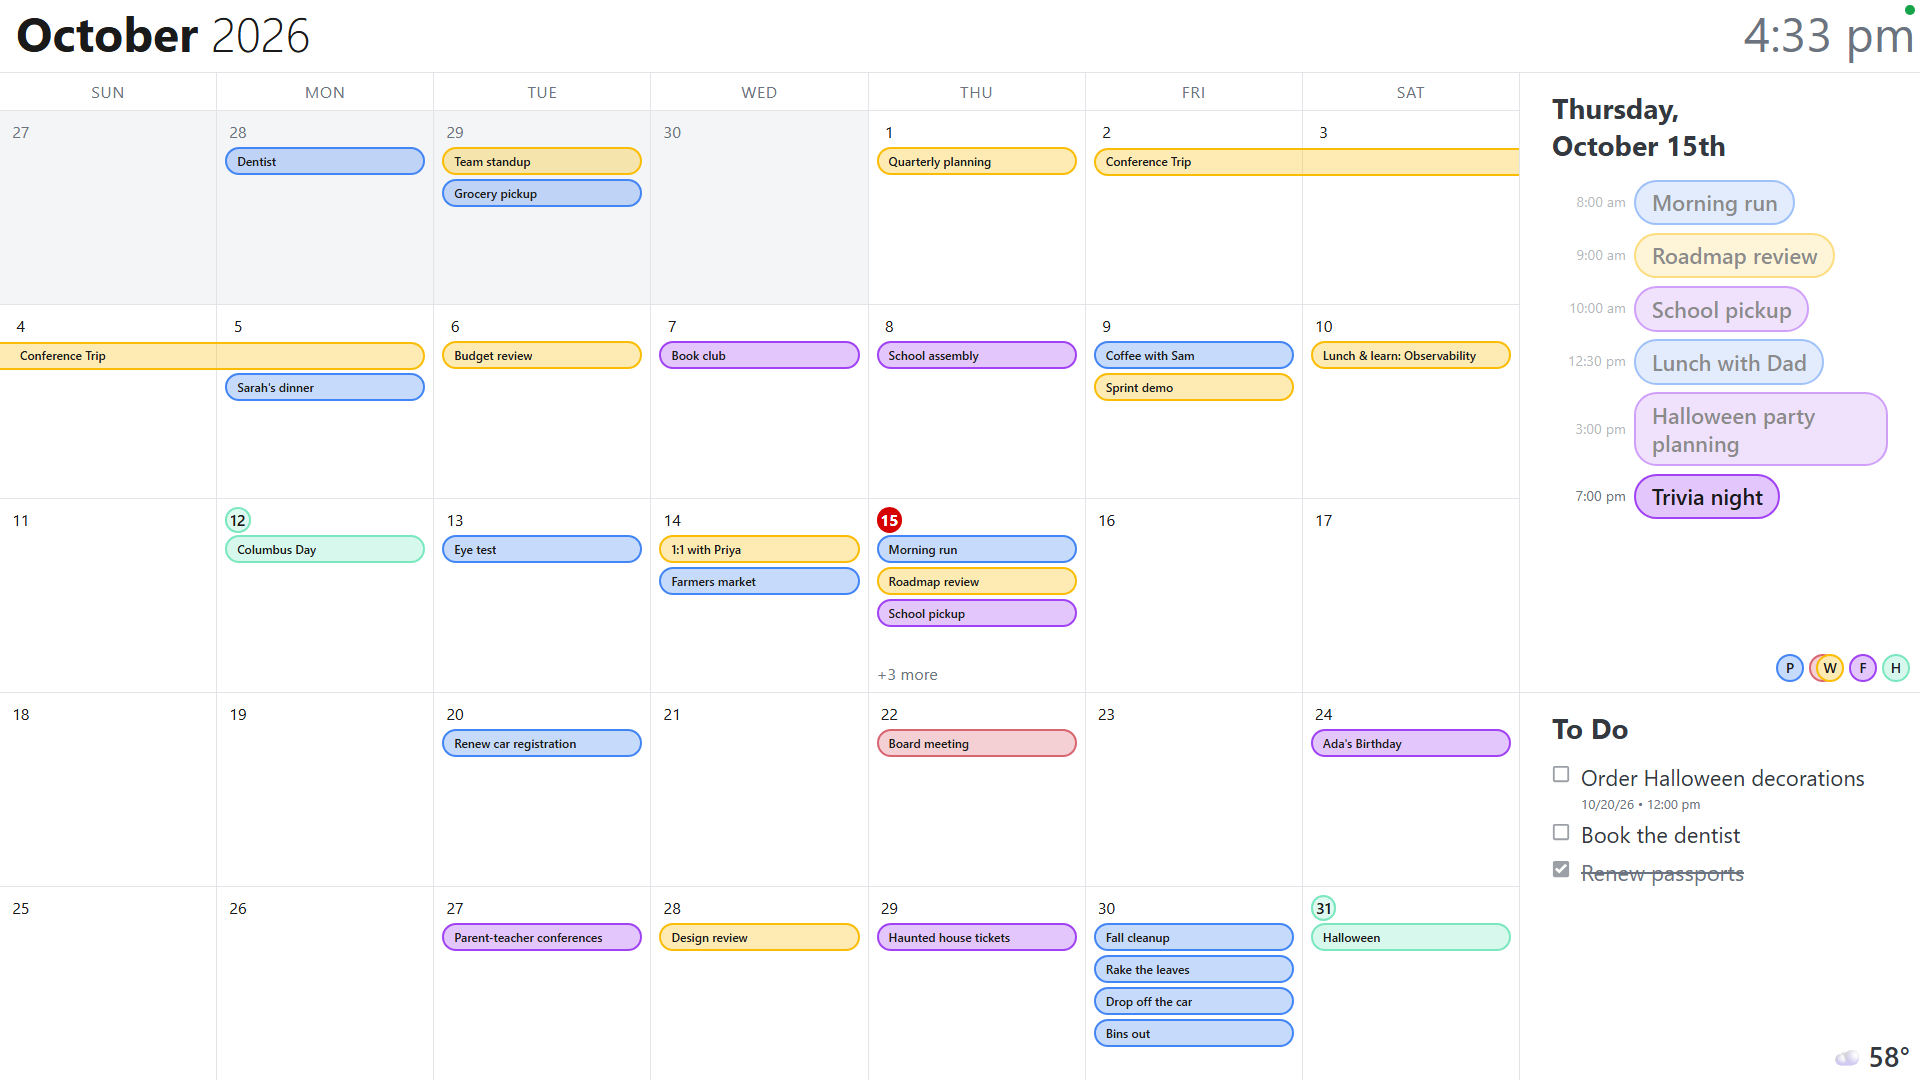
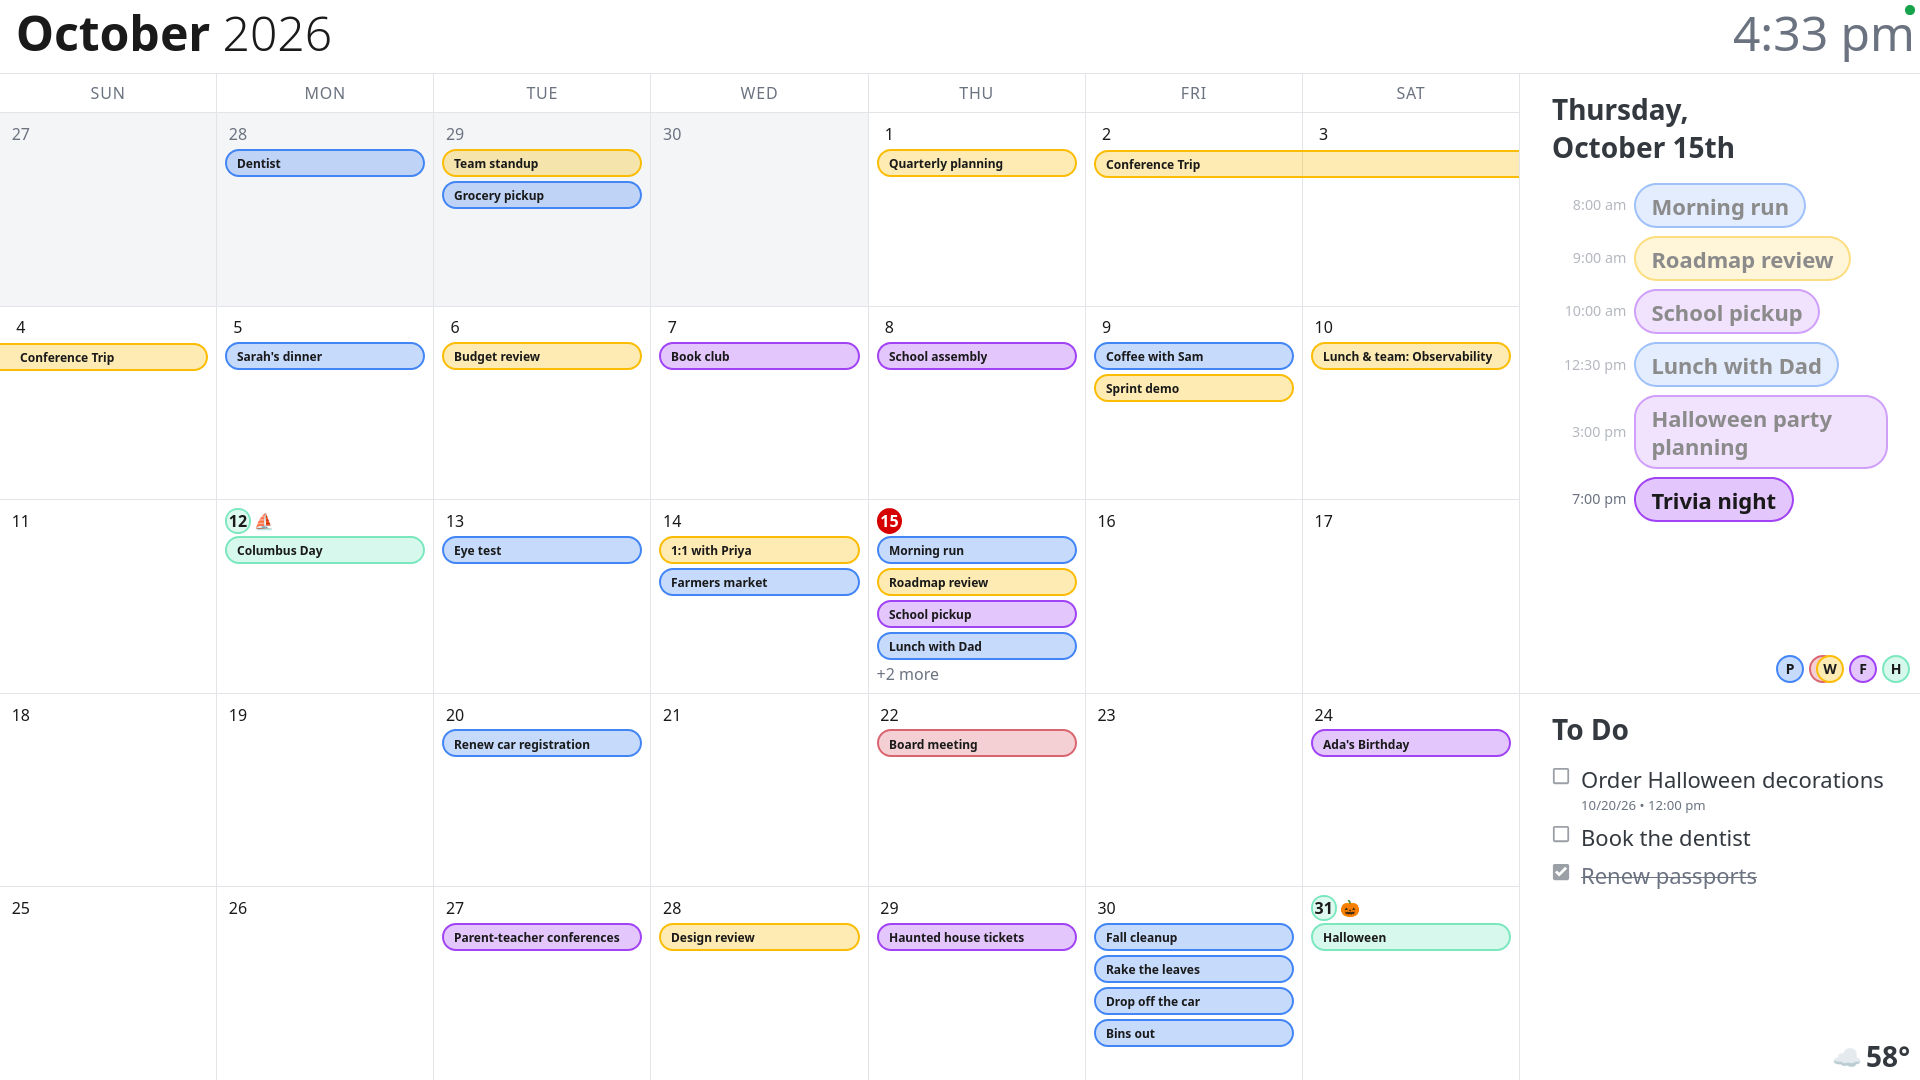
Re-capture the holiday screenshots with the images in them
The four captures in the holiday section were rendered before the images
existed, so they showed the rings and nothing beside the numbers. Same
fixture and same mid-October clock as last time, so Columbus Day on the
12th and Halloween on the 31st are the two days marked, now with a
sailboat and a jack-o'-lantern beside their numbers at the number's own
size.

The fixture was rebuilt from the captures it replaces rather than reused,
since it was never committed (a throwaway harness that fed useWebSocket
canned data and pinned the clock, same as last time, and reverted again
afterward): the four calendars and their colors, the events, the to-do
list and the weather are all as they were, down to the Work calendar's
one overridden event color showing as a swatch behind the "W" in the
legend. Two incidental differences, both from rendering in a different
browser build than last time: the 15th now fits four pills before
"+2 more" rather than three and "+3", and the fonts are the same but
hinted slightly differently. The legend keeping four separate circles
still holds, which was the one that broke on the previous run.

diff --git a/README.md b/README.md
@@ -223,20 +223,20 @@ date rather than say what's on it, the same way the day numbers themselves
 stay visible; only titles go.
 
 <p align="center">
-  <a href="docs/demo-holiday-landscape-dark.png"><img src="docs/demo-holiday-landscape-dark.png" alt="Landscape, dark theme: October 2026, with Columbus Day on the 12th and Halloween on the 31st ringed in the holidays calendar's green" width="380"></a>
+  <a href="docs/demo-holiday-landscape-dark.png"><img src="docs/demo-holiday-landscape-dark.png" alt="Landscape, dark theme: October 2026, with Columbus Day on the 12th and Halloween on the 31st ringed in the holidays calendar's green, a sailboat and a jack-o'-lantern beside their day numbers" width="380"></a>
   <a href="docs/demo-holiday-landscape-light.png"><img src="docs/demo-holiday-landscape-light.png" alt="Landscape, light theme: the same October 2026 month" width="380"></a>
 </p>
 <p align="center">
-  <a href="docs/demo-holiday-portrait-dark.png"><img src="docs/demo-holiday-portrait-dark.png" alt="Portrait, dark theme: October 2026 with the same two holiday days ringed" width="220"></a>
+  <a href="docs/demo-holiday-portrait-dark.png"><img src="docs/demo-holiday-portrait-dark.png" alt="Portrait, dark theme: October 2026 with the same two holiday days ringed and their images beside the numbers" width="220"></a>
   <a href="docs/demo-holiday-portrait-light.png"><img src="docs/demo-holiday-portrait-light.png" alt="Portrait, light theme: the same October 2026 month" width="220"></a>
 </p>
 
 *(Demo data again, like the four above, with the clock moved to mid-October so
 a month with holidays in it is the one on screen. Columbus Day on the 12th and
 Halloween on the 31st are ringed in the Google holidays calendar's own green —
-the same green as their pills, and as the "H" in the legend. The 15th is
-today, in the fixed red it always uses. These four predate the images beside
-the numbers, so only the rings show in them.)*
+the same green as their pills, and as the "H" in the legend — with the image
+each holiday is conventionally represented by sitting beside the number, at the
+number's own size. The 15th is today, in the fixed red it always uses.)*
 
 
 A separate small app (`companion/`) served at `/companion` lets you manage
